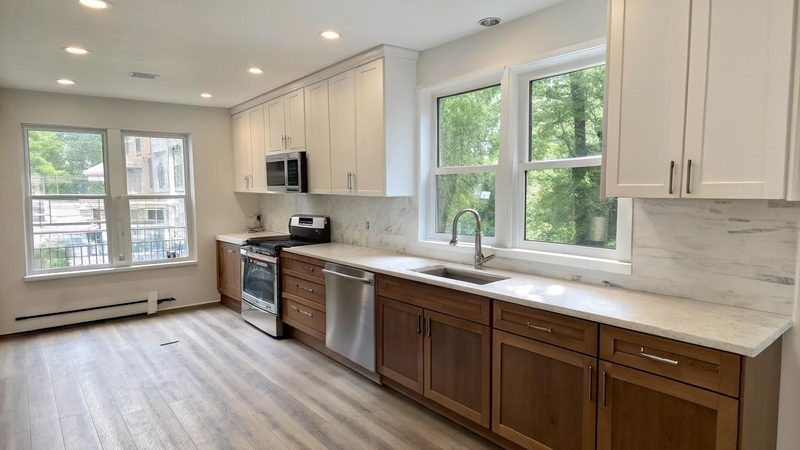
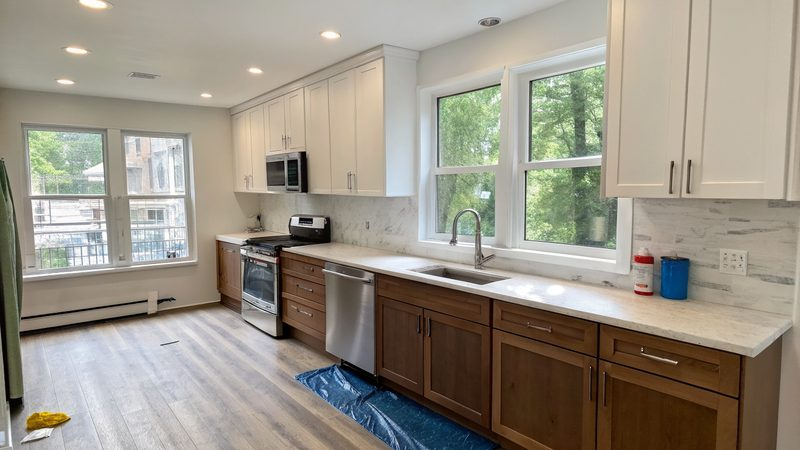
Update post-construction card image

diff --git a/index.html b/index.html
@@ -1225,7 +1225,7 @@ height="0" width="0" style="display:none;visibility:hidden"></iframe></noscript>
       </article>
 
       <article class="service-card reveal">
-        <div class="service-card-img"><img src="/images/service-post-construction.jpg" alt="Newly renovated apartment kitchen with white upper and walnut lower cabinets, cleaned after construction" loading="lazy" width="800" height="450"></div>
+        <div class="service-card-img"><img src="/images/service-post-construction.jpg" alt="Newly renovated apartment kitchen with white upper and walnut lower cabinets, just after construction" loading="lazy" width="800" height="450"></div>
         <div class="service-card-inner">
           <span class="service-card-icon"><svg viewBox="0 0 24 24"><path d="M14.7 6.3a1 1 0 0 0 0 1.4l1.6 1.6a1 1 0 0 0 1.4 0l3.77-3.77a6 6 0 0 1-7.94 7.94l-6.91 6.91a2.12 2.12 0 0 1-3-3l6.91-6.91a6 6 0 0 1 7.94-7.94l-3.76 3.76z"/></svg></span>
           <h3>Post-Construction Cleaning</h3>
